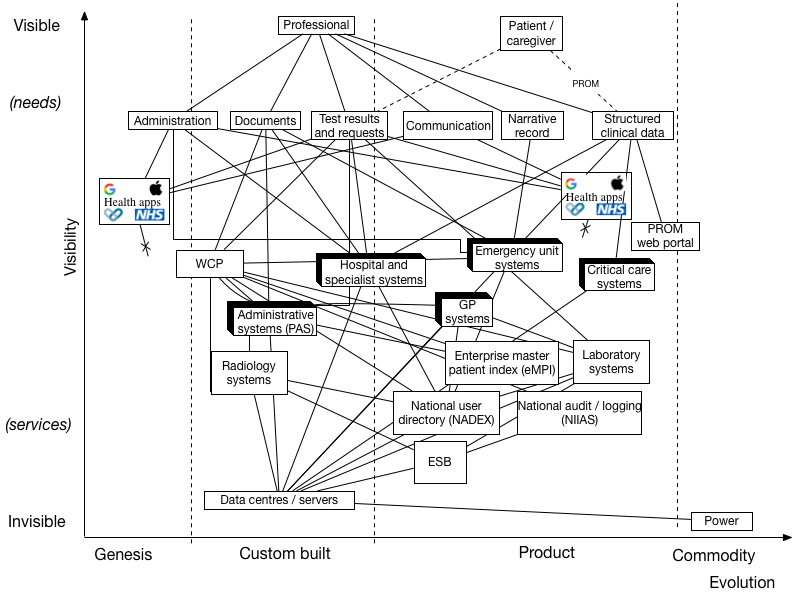
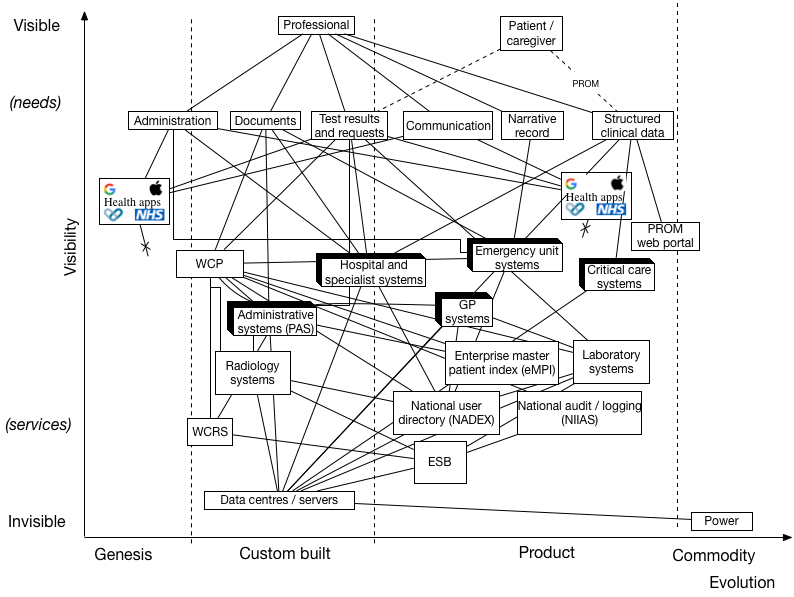
Updating images.

Changed region(s): [[0.2418, 0.603, 0.4534, 0.7839], [0.4836, 0.7236, 0.5139, 0.7538], [0.4232, 0.6935, 0.4534, 0.7236]]

diff --git a/strategy/2018/07/19/mapping.html b/strategy/2018/07/19/mapping.html
@@ -260,6 +260,9 @@
   <li>ESB - enterprise service bus. Messaging fabric carrying HL7 v2 messages between producers and listeners. Should allow decoupled development but caveat emptor! Continue to use for some uses but move to an API-based approach for most modern applications.</li>
   <li>NIIAS - “National Intelligent Integrated Audit Service” - currently used at the application-level. Needs to be embedded at the API-layer (platform) instead</li>
   <li>OAUTH2 - authentication framework</li>
+  <li>PAS - patient administration systems</li>
+  <li>WCP - Welsh Clinical Portal - a currently monolithic application providing a portal, one instance per health board coupled to the local PAS.</li>
+  <li>WCRS - Welsh Care Records Service - a document repository and search service</li>
 </ul>
 
 <h4 id="footnotes">Footnotes</h4>
